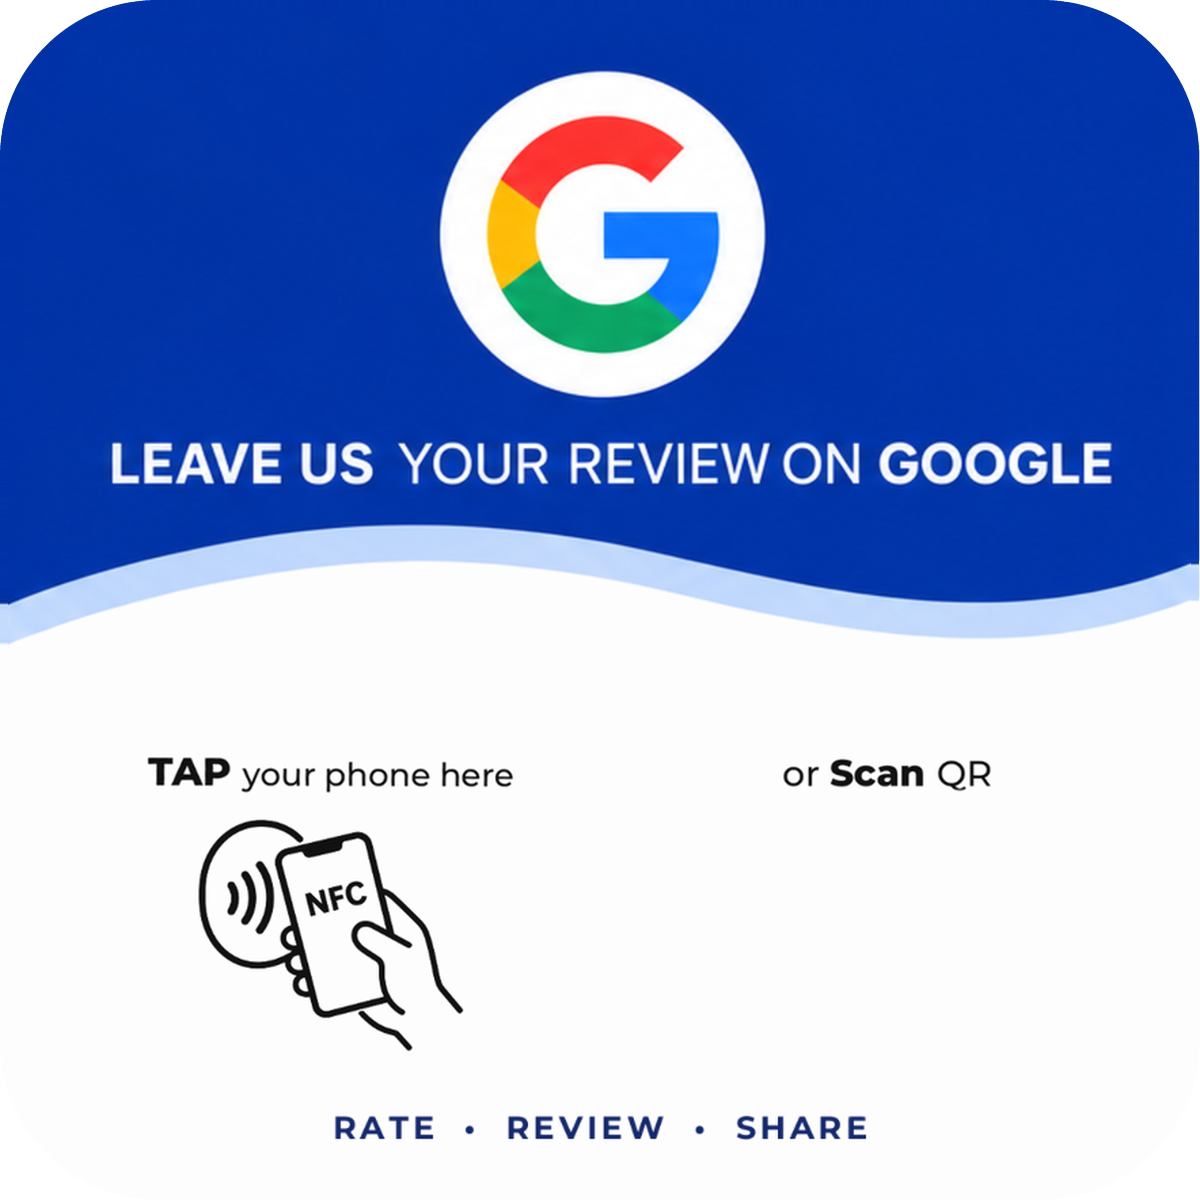
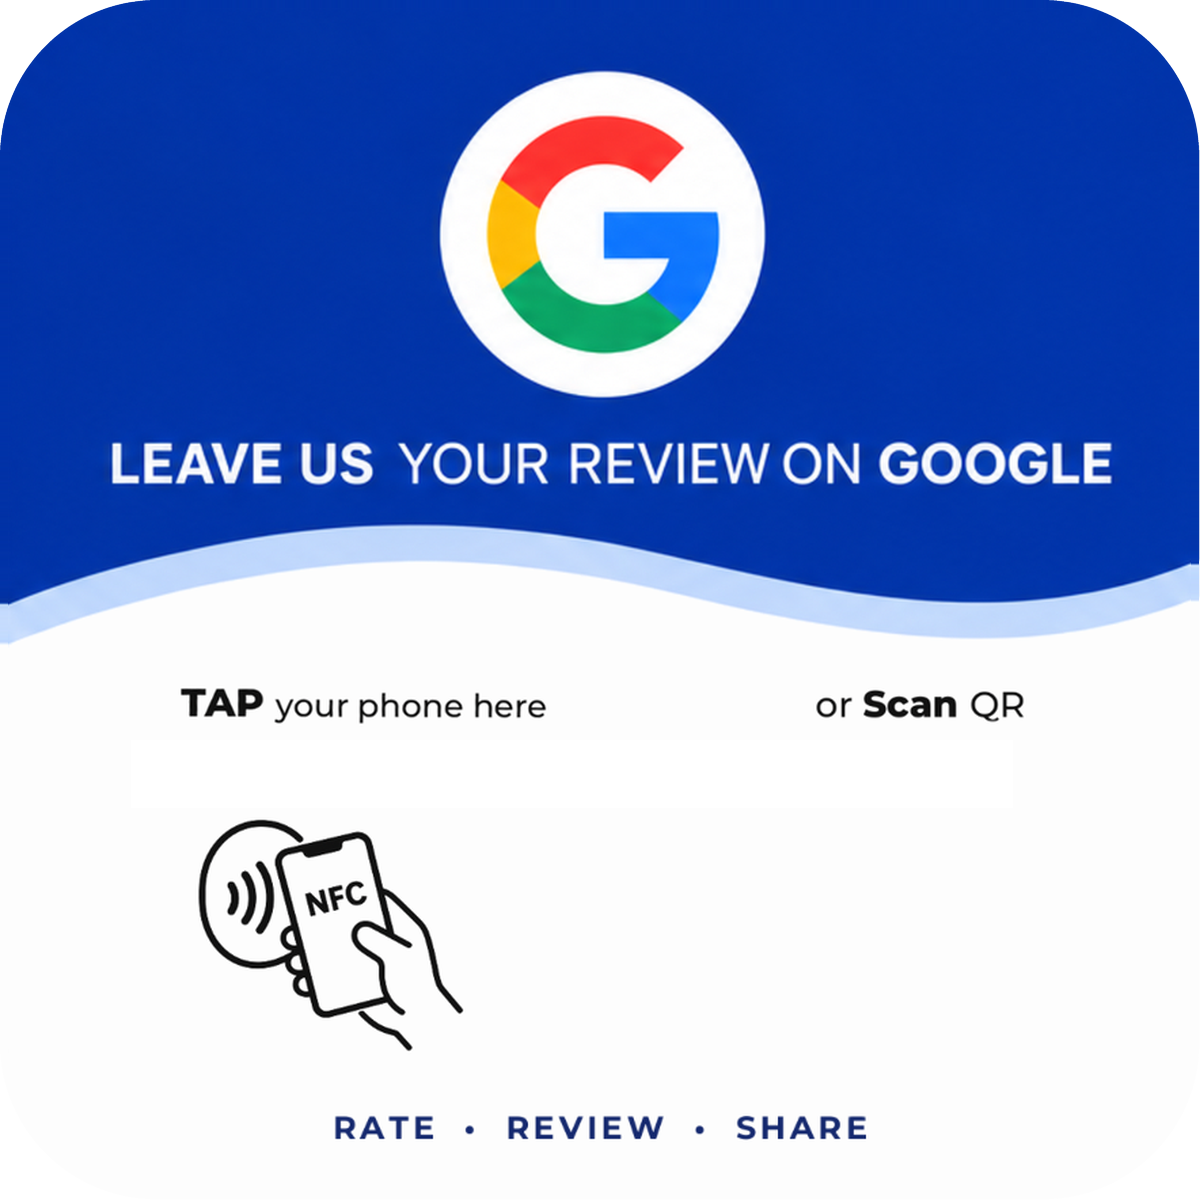
Update Google card template assets and fine-tune card ID slot position

Changed region(s): [[0.1233, 0.555, 0.4625, 0.6783], [0.6475, 0.555, 0.8633, 0.6783]]

diff --git a/src/styles.css b/src/styles.css
@@ -260,7 +260,7 @@
 .google-card-container .google-id-slot {
   position: absolute;
   left: 62.9%;
-  top: calc(88.8% - 7px);
+  top: calc(88.8% - 5.25px);
   width: 22%;
   height: 3%;
   display: flex;
